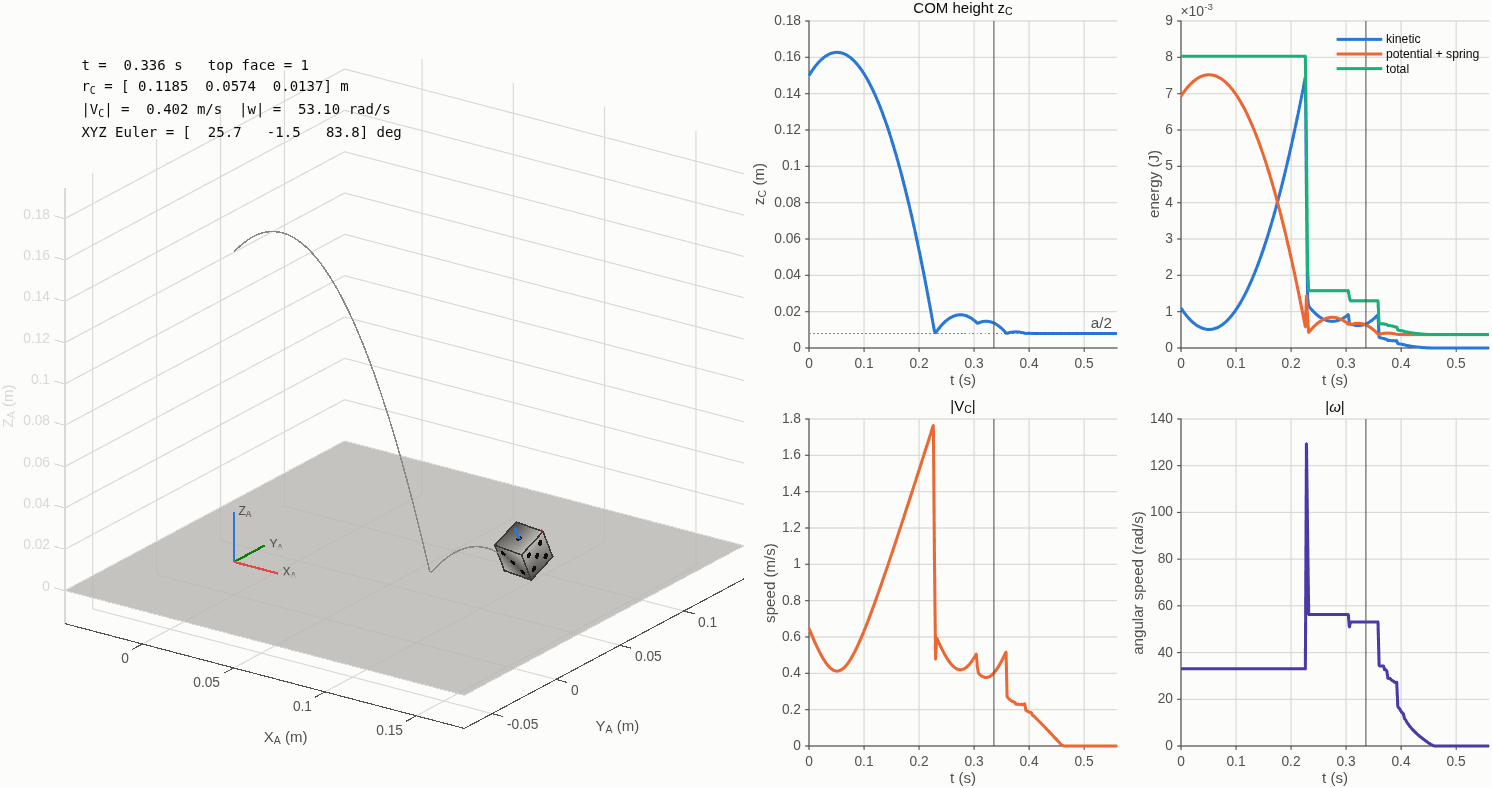
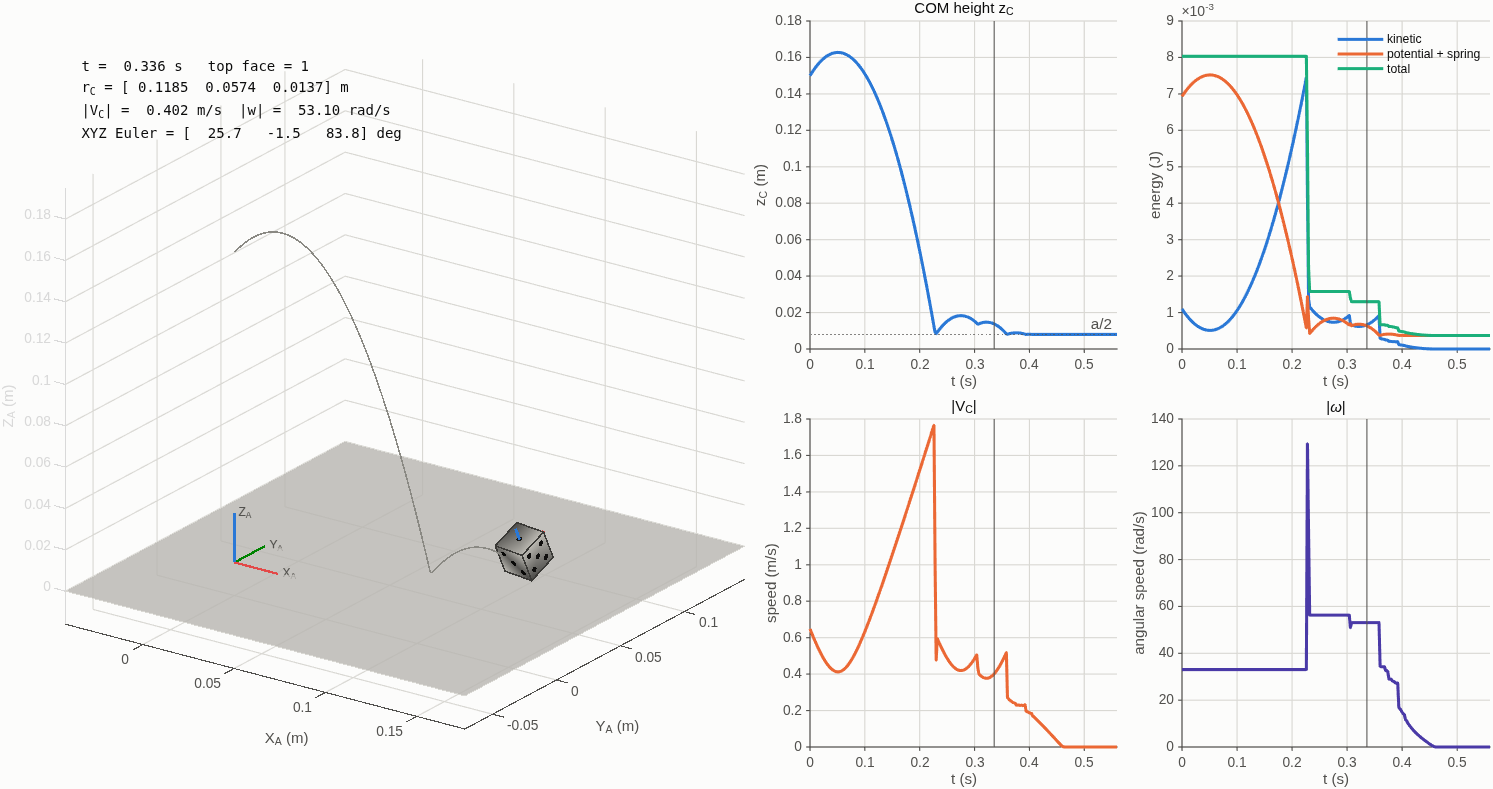
Figures regenerate from the models, including a screenshot of the app
rigid_body_figures now also captures the app itself, so the front page
cannot drift away from what the app looks like; a figure that no longer
matches the code does not survive a regeneration.

diff --git a/matlab/scripts/rigid_body_figures.m b/matlab/scripts/rigid_body_figures.m
@@ -1,18 +1,22 @@
-function make_figures(outDir)
-%MAKE_FIGURES  Render reference figures of all three applications (headless-safe).
+function rigid_body_figures(outDir)
+%RIGID_BODY_FIGURES  Regenerate every figure in docs/img from fresh simulations.
 %
-%   make_figures             writes PNGs to docs/figures/
-%   make_figures(outDir)
+%   rigid_body_figures             writes to docs/img
+%   rigid_body_figures(outDir)
 %
-%   Each figure = final-state scene + dashboard, generated only from simulation
-%   results (used as Level 6 visual evidence).
+%   Three model figures (scene at a representative instant beside its dashboard)
+%   and one screenshot of the app. Nothing is drawn from stored data: each figure
+%   is produced by running the model again, so a figure that no longer matches
+%   the code cannot survive a regeneration.
     root = fileparts(fileparts(fileparts(mfilename('fullpath'))));
     run(fullfile(root, 'matlab', 'setup_path.m'));
-    if nargin < 1, outDir = fullfile(root, 'docs', 'figures'); end
+    if nargin < 1, outDir = fullfile(root, 'docs', 'img'); end
     if ~isfolder(outDir), mkdir(outDir); end
-    cases = {'dice', @() rbsim.dice.simulate(rbsim.dice.defaults()), @rbsim.viz.diceScene, @rbsim.viz.diceUpdate;
-             'robot', @() rbsim.robot.simulate(pdParams()), @rbsim.viz.robotScene, @rbsim.viz.robotUpdate;
-             'fourbar', @() rbsim.fourbar.simulate(rbsim.fourbar.defaults()), @rbsim.viz.fourbarScene, @rbsim.viz.fourbarUpdate};
+
+    cases = {
+        'dice',    @() rbsim.dice.simulate(rbsim.dice.defaults()),    @rbsim.viz.diceScene,    @rbsim.viz.diceUpdate
+        'robot',   @() rbsim.robot.simulate(pdParams()),              @rbsim.viz.robotScene,   @rbsim.viz.robotUpdate
+        'fourbar', @() rbsim.fourbar.simulate(rbsim.fourbar.defaults()), @rbsim.viz.fourbarScene, @rbsim.viz.fourbarUpdate};
     for i = 1:size(cases, 1)
         res = cases{i, 2}();
         f = figure('Visible', 'off', 'Position', [0 0 1400 700], 'Color', rbsim.viz.theme().surface);
@@ -24,12 +28,32 @@ function make_figures(outDir)
         axs = [nexttile(tl, 3), nexttile(tl, 4), nexttile(tl, 7), nexttile(tl, 8)];
         cur = rbsim.viz.dashboard(axs, res, cases{i, 1});
         rbsim.viz.setCursor(cur, res.t(kStill));
-        exportgraphics(f, fullfile(outDir, [cases{i, 1} '.png']), 'Resolution', 110);
+        out = fullfile(outDir, [cases{i, 1} '.png']);
+        exportgraphics(f, out, 'Resolution', 110);
         close(f);
-        fprintf('wrote %s\n', fullfile(outDir, [cases{i, 1} '.png']));
+        fprintf('wrote %s\n', out);
     end
+
+    appShot(fullfile(outDir, 'app.png'));
 end
 
 function p = pdParams()
     p = rbsim.robot.defaults(); p.control.mode = 'pd'; p.tFinal = 3;
+end
+
+function appShot(out)
+%   A screenshot of the app itself, mid-throw, so the front page shows the thing
+%   a reader will actually open. Needs a display; skipped without one.
+    if ~usejava('desktop') && isempty(getenv('DISPLAY')) && ~ispc && ~ismac
+        fprintf('no display: skipped %s\n', out);
+        return
+    end
+    app = RigidBodyLabApp();
+    c = onCleanup(@() delete(app));
+    app.run('dice');
+    res = app.Results.dice;
+    app.showSample('dice', round(0.42 * numel(res.t)));
+    drawnow; pause(1.5);
+    exportapp(app.UIFigure, out);
+    fprintf('wrote %s\n', out);
 end

diff --git a/README.md b/README.md
@@ -14,7 +14,7 @@ tests that check the physics against closed-form answers and conservation laws.*
 ![License](https://img.shields.io/badge/license-MIT-green)
 
 <p align="center">
-  <img src="docs/img/gui_dice.png" width="880"
+  <img src="docs/img/app.png" width="880"
        alt="The lab app: parameter boxes on the left, a 16 mm die mid-bounce above a floor in the centre with its body axes drawn, and four plots on the right showing height, energy, speed and angular speed against time.">
   <br><sub>A 16 mm die, thrown at 0.4 m/s with 33 rad/s of spin. The face it shows at the end
   is read from the simulated orientation; nothing about the outcome is prescribed.</sub>
